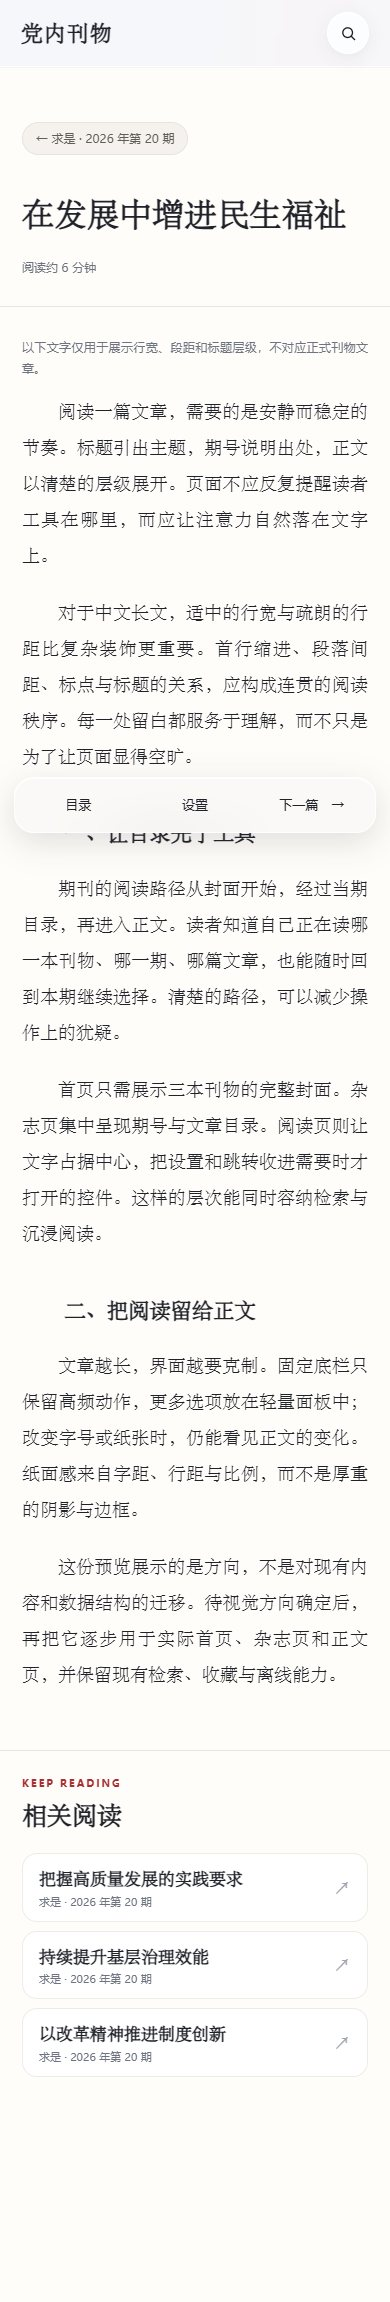
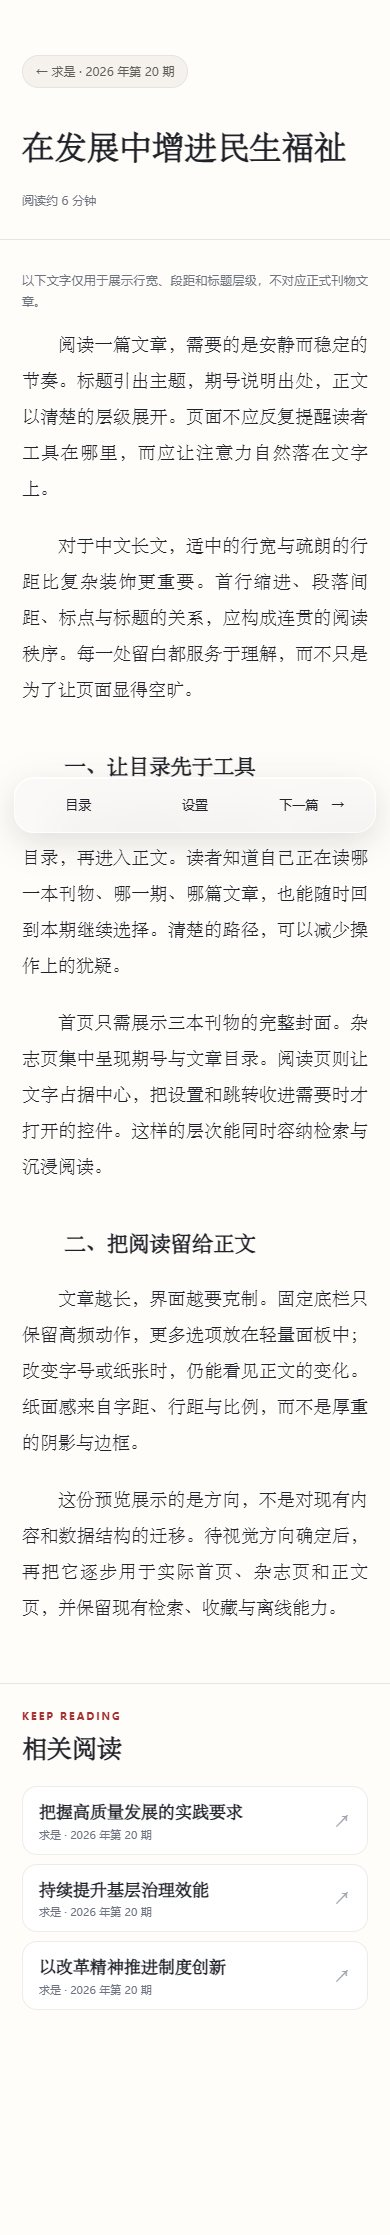
Hide demo site header during reading

Changed region(s): [[0.0615, 0.0, 0.9538, 0.7409], [0.0615, 0.7718, 0.6154, 0.8953], [0.8615, 0.8027, 0.8923, 0.8336]]

diff --git a/design-demo/index.html b/design-demo/index.html
@@ -92,6 +92,7 @@
     :root { --paper:#f2f3f6; --surface:#ffffff; --ink:#20222a; --muted:#6e7380; --faint:#a0a5af; --line:rgba(38,44,55,.11); --accent:#a62e32; --glass:rgba(255,255,255,.72); }
     body { background:radial-gradient(ellipse 42% 35% at 18% 29%,rgba(224,231,244,.7),transparent 100%),radial-gradient(ellipse 35% 35% at 82% 12%,rgba(246,225,220,.5),transparent 100%),var(--paper); }
     .site-header { position:relative; z-index:25; border-bottom:1px solid rgba(255,255,255,.75); background:rgba(248,249,252,.7); -webkit-backdrop-filter:blur(24px) saturate(150%); backdrop-filter:blur(24px) saturate(150%); box-shadow:0 1px 0 rgba(40,45,60,.04); }
+    body.reading-active .site-header { display:none; }
     .site-header-inner { min-height:78px; }
     .brand { font-size:22px; letter-spacing:.04em; }
     .search-trigger { display:flex; align-items:center; justify-content:center; gap:9px; min-width:95px; min-height:40px; padding:0 15px; border:1px solid rgba(255,255,255,.9); border-radius:999px; background:var(--glass); color:var(--ink); box-shadow:0 4px 16px rgba(37,43,58,.08),inset 0 1px 0 #fff; font-size:13px; font-weight:600; -webkit-backdrop-filter:blur(18px); backdrop-filter:blur(18px); }
@@ -277,7 +278,7 @@
     const $=id=>document.getElementById(id);
     function closePanels(){ $('tocPanel').hidden=true; $('settingsPanel').hidden=true; for(const id of ['tocToggle','settingsToggle']) {$(id).classList.remove('active');$(id).setAttribute('aria-expanded','false');} }
     function closeQuickNav(){ $('quickNavActions').hidden=true; $('quickNavToggle').classList.remove('active'); $('quickNavToggle').setAttribute('aria-expanded','false'); }
-    function showView(view){ for(const [name,id] of [['home','homeView'],['magazine','magazineView'],['reading','readingView']]) $(id).hidden=name!==view; closePanels(); closeQuickNav(); window.scrollTo(0,0); requestAnimationFrame(updateReaderTools); }
+    function showView(view){ for(const [name,id] of [['home','homeView'],['magazine','magazineView'],['reading','readingView']]) $(id).hidden=name!==view; document.body.classList.toggle('reading-active',view==='reading'); closePanels(); closeQuickNav(); window.scrollTo(0,0); requestAnimationFrame(updateReaderTools); }
     function setMagazine(key){ activeMag=key; articleIndex=0; activeTab='catalog'; document.querySelectorAll('[data-mag-tab]').forEach(b=>{const selected=b.dataset.magTab==='catalog';b.classList.toggle('active',selected);b.setAttribute('aria-selected',String(selected));}); const m=magazines[key]; $('magTitle').textContent=m.name; $('magCover').src=m.cover; $('magCover').alt=m.name+'封面'; renderRows(); renderToc(); showView('magazine'); }
     function renderRows(){ const m=magazines[activeMag]; const choices=activeTab==='catalog'?[0,1,2,3,4]:activeTab==='section'?[0,2,4]:[1,3]; $('issueHeading').textContent=activeTab==='catalog'?m.issue:activeTab==='section'?'板块':'我的收藏'; $('issueRows').replaceChildren(); choices.forEach(i=>{const title=m.rows[i];const b=document.createElement('button'); b.type='button';b.className='issue-row';b.innerHTML='<span class="num">'+String(i+1).padStart(2,'0')+'</span><strong></strong><span class="arrow">↗</span>';b.querySelector('strong').textContent=title;b.addEventListener('click',()=>openArticle(i));$('issueRows').append(b);}); }
     function renderToc(){ $('tocRows').replaceChildren(); magazines[activeMag].rows.forEach((title,i)=>{const b=document.createElement('button');b.type='button';b.className='panel-row';b.textContent=String(i+1).padStart(2,'0')+'　'+title;b.addEventListener('click',()=>openArticle(i));$('tocRows').append(b);}); }
@@ -306,7 +307,7 @@
     document.querySelectorAll('[data-quick-destination]').forEach(b=>b.addEventListener('click',()=>showView(b.dataset.quickDestination)));
     window.addEventListener('scroll',updateReaderTools,{passive:true});
     window.addEventListener('resize',updateReaderTools);
-    document.addEventListener('keydown',e=>{if(e.key==='Escape'){if(!$('searchSheet').hidden)closeSearch();else {closePanels();closeQuickNav();}}else if($('searchSheet').hidden&&(e.key==='/'||(e.key.toLowerCase()==='k'&&(e.ctrlKey||e.metaKey)))){e.preventDefault();openSearch();}else if(e.key==='Tab'&&!$('searchSheet').hidden){const focusable=[...$('searchSheet').querySelectorAll('button,input')];const first=focusable[0],last=focusable.at(-1);if(e.shiftKey&&document.activeElement===first){e.preventDefault();last.focus();}else if(!e.shiftKey&&document.activeElement===last){e.preventDefault();first.focus();}}});
+    document.addEventListener('keydown',e=>{if(e.key==='Escape'){if(!$('searchSheet').hidden)closeSearch();else {closePanels();closeQuickNav();}}else if($('searchSheet').hidden&&$('readingView').hidden&&(e.key==='/'||(e.key.toLowerCase()==='k'&&(e.ctrlKey||e.metaKey)))){e.preventDefault();openSearch();}else if(e.key==='Tab'&&!$('searchSheet').hidden){const focusable=[...$('searchSheet').querySelectorAll('button,input')];const first=focusable[0],last=focusable.at(-1);if(e.shiftKey&&document.activeElement===first){e.preventDefault();last.focus();}else if(!e.shiftKey&&document.activeElement===last){e.preventDefault();first.focus();}}});
     document.addEventListener('click',e=>{if(!$('tocPanel').contains(e.target)&&!$('settingsPanel').contains(e.target)&&!$('tocToggle').contains(e.target)&&!$('settingsToggle').contains(e.target))closePanels();});
     document.addEventListener('click',e=>{if(!$('quickNavActions').contains(e.target)&&!$('quickNavToggle').contains(e.target))closeQuickNav();});
     renderRows();

diff --git a/design-demo/README.md b/design-demo/README.md
@@ -21,7 +21,7 @@
 
 ## 建议采用的方向
 
-**当代期刊阅读**：首页用三本完整封面及其刊名、篇数、期数呈现内容，搜索收在右上角；杂志页用刊名、期号和连续文章索引形成清楚的层次，桌面保留当期封面，手机直接进入目录；正文页保持单栏阅读，底栏放高频操作，右下角保留返回顶部、阅读进度与页面导航，文末展示相关阅读。全站使用系统字体，搜索、分段切换和阅读控件采用轻透材质，刊物与正文保持稳定、清楚的底色。
+**当代期刊阅读**：首页用三本完整封面及其刊名、篇数、期数呈现内容，搜索收在右上角；杂志页用刊名、期号和连续文章索引形成清楚的层次，桌面保留当期封面，手机直接进入目录；正文页隐藏网站顶栏与搜索，保持单栏阅读，底栏放高频操作，右下角保留返回顶部、阅读进度与页面导航，文末展示相关阅读。全站使用系统字体，搜索、分段切换和阅读控件采用轻透材质，刊物与正文保持稳定、清楚的底色。
 
 优先改变布局秩序和间距，不增加装饰。尤其要控制正文行宽、封面比例与目录密度。正式实现时沿用现有数据、搜索、收藏、离线与 GitHub/Cloudflare Pages 部署结构，逐页替换样式和必要交互即可。
 

diff --git a/HANDOFF.md b/HANDOFF.md
@@ -1,5 +1,22 @@
 # 交接记录
 
+## 2026-11-01：demo 正文页隐藏网站顶栏
+
+### 当前任务与已完成
+
+用户要求正文阅读时不显示顶栏的网站标题和搜索框。已在 `design-demo/index.html` 让 `showView()` 切换 `body.reading-active`，正文页隐藏整个 `.site-header`，首页和杂志页保持可见；正文状态下也禁用全局搜索键盘快捷键。`design-demo/README.md` 已同步说明。正式站点未改。
+
+### 验收与下一步
+
+- Playwright 桌面与 390px 手机检查：首页和杂志页顶栏可见、正文页隐藏、返回杂志后恢复；相关阅读仍有 3 条，右下工具滚动后可见，手机无横向溢出。正文截图已更新。
+- 本轮仍需提交、推送 demo 与交接文档，并核对远端提交号。若用户之后要求接入正式站点，需在其实际路由状态下做相同顶栏切换。
+
+### 踩过的坑
+
+- 仅隐藏视觉元素还会留下搜索快捷键入口；这次同时按正文状态限制了 `/` 和 `Ctrl/⌘ + K`。
+
+---
+
 ## 2026-11-01：demo 恢复首页计数与正文辅助功能
 
 ### 当前任务与已完成
